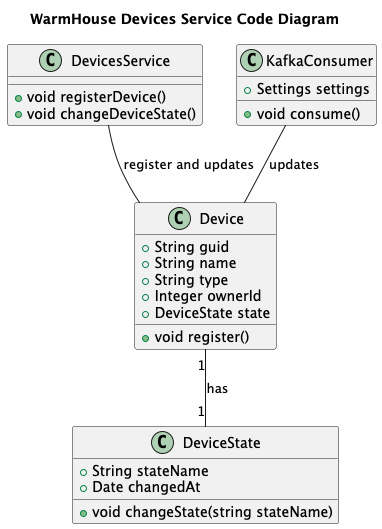
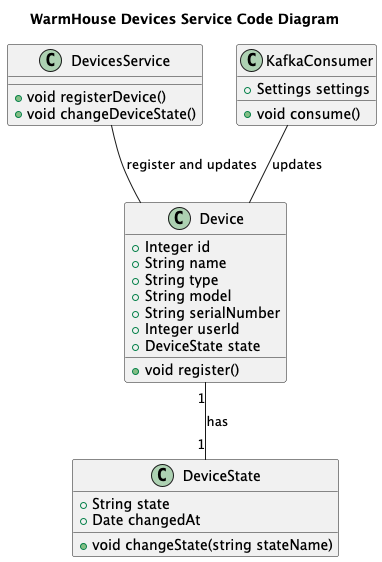
Выполняю Задание 3

Changed region(s): [[0.0, 0.0, 1.0, 0.9981], [0.7199, 0.3932, 0.7487, 0.4234]]

diff --git a/Project_template.md b/Project_template.md
@@ -39,13 +39,13 @@
 
 Опишите здесь домены, которые вы выделили.
 
-Домен: Управление устройствами
-    Контекст: Включение/выключение оборудования
+- Домен: Управление устройствами
+    - Контекст: Включение/выключение оборудования
 
-Домен: Мониторинг датчиков
-    Контекст: Отслеживание показаний датчиков
+- Домен: Мониторинг датчиков
+    - Контекст: Отслеживание показаний датчиков
 
-Домен: Подключение устройств и датчиков
+- Домен: Подключение устройств и датчиков
 
 ### **4. Проблемы монолитного решения**
 
@@ -61,7 +61,8 @@
 ### 5. Визуализация контекста системы — диаграмма С4
 
 [context_before.png](docs/img/C4_context_before.png)
-![context_after.png](docs/img/C4_context_before.png)
+
+![context_before.png](docs/img/C4_context_before.png)
 
 # Задание 2. Проектирование микросервисной архитектуры
 
@@ -99,7 +100,11 @@
 
 # Задание 3. Разработка ER-диаграммы
 
-Добавьте сюда ER-диаграмму. Она должна отражать ключевые сущности системы, их атрибуты и тип связей между ними.
+Добавьте сюда ER-диаграмму. Она должна отражать ключевые сущности системы, их атрибуты и тип связей между ними
+.
+[ER_diagram.png](docs/img/ERD.png)
+
+![ER_diagram.png](docs/img/ERD.png)
 
 Четвёртое задание — дополнительное. Его можно сделать по желанию. Чтобы ревьюер быстрее проверил ваше решение, укажите, сделали вы это задание или нет. Для этого оставьте нужный эмодзи около заголовка задания:
 
@@ -107,7 +112,7 @@
 
 ❌ — вы пропустили задание.
 
-# ✅ ❌ Задание 4. Создание и документирование API
+# ❌ Задание 4. Создание и документирование API
 
 ### 1. Тип API
 
